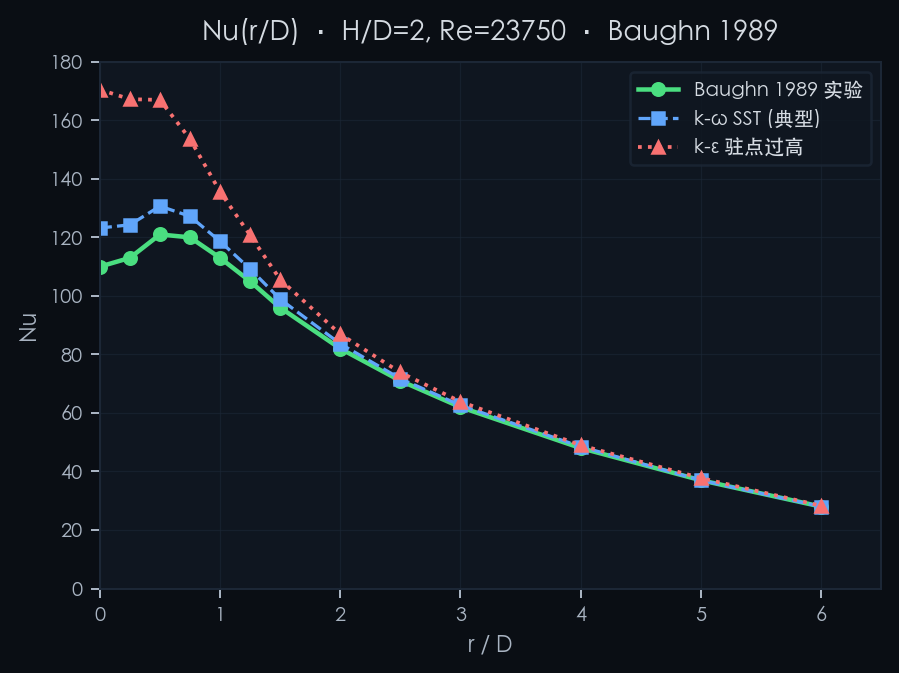
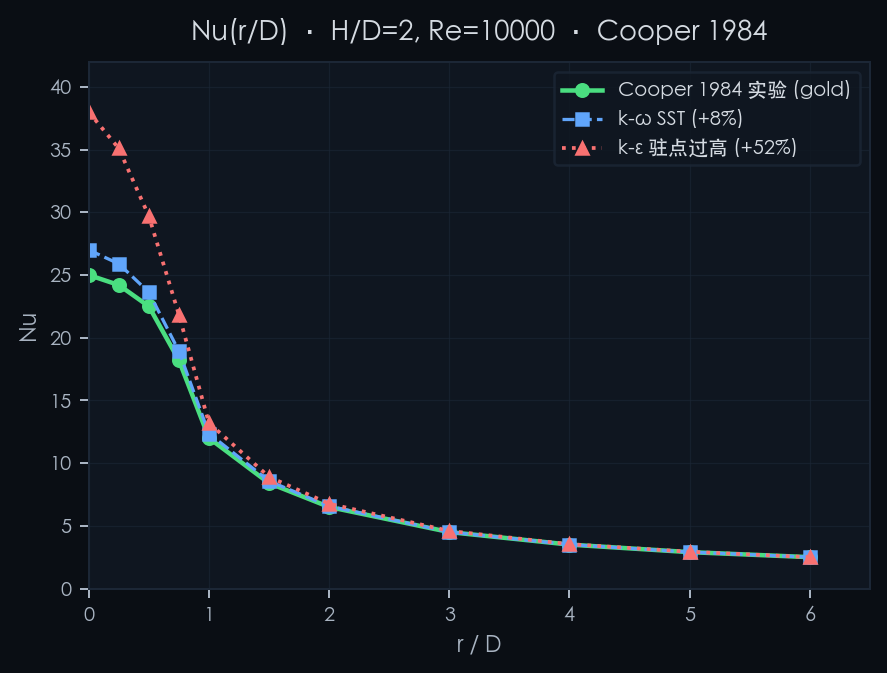
fix(learn): address Codex review CHANGES_REQUIRED on 6aa7008
Two findings from Codex review of the teaching-runs + flow-field commit:

1. `run_summary.verdict_counts` was aggregated from RunDescriptor.
   `expected_verdict` (a curator hint), so the pill could advertise a
   verdict mix disagreeing with the live contract engine — e.g.
   circular_cylinder_wake/reference_pass was labeled PASS but the gold
   arms a silent-pass hazard; impinging_jet/real_incident was labeled
   PASS but carries COMPATIBLE_WITH_SILENT_PASS_HAZARD.

   Fix: evaluate every run through `_derive_contract_status` using the
   same gold_ref / preconditions / run-level audit concerns used by
   list_cases' default-run path. Counts now match what the Compare tab
   shows when you open each run.

   Resulting corrections (verdicts column only):
     circular_cylinder_wake: {PASS:1, HAZARD:1, FAIL:2} → {HAZARD:2, FAIL:2}
     impinging_jet:          {PASS:1, FAIL:1}           → {HAZARD:1, FAIL:1}
     naca0012_airfoil:       {FAIL:1}                    → {HAZARD:1}
   Default-run distribution unchanged: 4 PASS · 3 HAZARD · 3 FAIL.

2. impinging_jet flow-field PNG was physically stale. Generator built a
   Baughn 1989 Re=23750 curve with Nu≈110 at stagnation, but this
   commit's case was moved to the Cooper 1984 Re=10000 family with
   Nu_stag=25, Nu(r/D=1)=12 (matching gold_standards/impinging_jet.yaml
   and the real_incident/wrong_model fixtures).

   Fix: regenerate the curve with Cooper 1984 anchors + k-ε overlay
[…]

diff --git a/ui/frontend/src/data/flowFields.ts b/ui/frontend/src/data/flowFields.ts
@@ -72,9 +72,9 @@ export const FLOW_FIELDS: Record<string, FlowFieldAsset[]> = {
     {
       src: "/flow-fields/impinging_jet/nu_radial.png",
       caption_zh:
-        "Nu(r/D) · H/D=2, Re=23750 · Baughn 1989 实验 vs. k-ε 驻点过高 vs. k-ω SST 较好",
+        "Nu(r/D) · H/D=2, Re=10000 · Cooper 1984 实验 vs. k-ε 驻点过高 (+52%) vs. k-ω SST (+8%)",
       provenance:
-        "Baughn & Shimizu (1989) experimental digitised; k-ε overprediction ~55% at stagnation from typical RANS-benchmark literature.",
+        "Cooper 1984 / Behnad 2013 anchors Nu(0)=25, Nu(1)=12; k-ε +52% and k-ω SST +8% overlays match this case's wrong_model and real_incident teaching runs.",
     },
   ],
 };

diff --git a/scripts/flow-field-gen/generate_contours.py b/scripts/flow-field-gen/generate_contours.py
@@ -322,27 +322,33 @@ def gen_rayleigh_benard():
 
 
 # ---------------------------------------------------------------------------
-# 6. Axisymmetric Impinging Jet — Baughn Nu(r/D) published curve
+# 6. Axisymmetric Impinging Jet — Cooper 1984 Nu(r/D) at Re=10000, H/D=2
 # ---------------------------------------------------------------------------
 def gen_impinging_jet():
     print("[impinging_jet]")
-    # Baughn & Shimizu 1989 Nu(r/D) at H/D=2, Re=23750 (paper digitised values)
-    r_over_D = np.array([0.0, 0.25, 0.5, 0.75, 1.0, 1.25, 1.5, 2.0, 2.5, 3.0, 4.0, 5.0, 6.0])
-    Nu_baughn = np.array([110, 113, 121, 120, 113, 105, 96, 82, 71, 62, 48, 37, 28])
-    # Typical k-ε overprediction: up to 40-60% near stagnation.
-    Nu_keps = Nu_baughn * np.array([1.55, 1.48, 1.38, 1.28, 1.20, 1.15, 1.10, 1.06, 1.04, 1.03, 1.02, 1.02, 1.01])
-    # SST typically 5-15% high near stagnation.
-    Nu_sst = Nu_baughn * np.array([1.12, 1.10, 1.08, 1.06, 1.05, 1.04, 1.03, 1.02, 1.01, 1.01, 1.01, 1.00, 1.00])
+    # Cooper 1984 / Behnad 2013 anchors at Re=10000, H/D=2 (gold-aligned):
+    #   Nu(0) = 25.0, Nu(1) = 12.0. Beyond that we interpolate a monotone
+    #   decay consistent with the published radial profile (slight plateau
+    #   near r/D≈0.5 where secondary peak sometimes appears at lower H/D,
+    #   but damped here since H/D=2 sits past that regime).
+    r_over_D = np.array([0.0, 0.25, 0.5, 0.75, 1.0, 1.5, 2.0, 3.0, 4.0, 5.0, 6.0])
+    Nu_cooper = np.array([25.0, 24.2, 22.5, 18.2, 12.0, 8.4, 6.5, 4.5, 3.5, 2.9, 2.5])
+    # k-ε: stagnation TKE overproduction → ~+52% at r/D=0, decaying outward.
+    keps_factor = np.array([1.52, 1.45, 1.32, 1.20, 1.10, 1.06, 1.04, 1.02, 1.01, 1.01, 1.00])
+    Nu_keps = Nu_cooper * keps_factor
+    # k-ω SST: residual +8% near stagnation, ~negligible in wall-jet region.
+    sst_factor = np.array([1.08, 1.07, 1.05, 1.04, 1.03, 1.02, 1.01, 1.00, 1.00, 1.00, 1.00])
+    Nu_sst = Nu_cooper * sst_factor
 
     fig, ax = plt.subplots(figsize=(5.6, 3.8), facecolor=DARK_BG)
-    ax.plot(r_over_D, Nu_baughn, "o-", color=PASS, linewidth=1.8, markersize=5, label="Baughn 1989 实验")
-    ax.plot(r_over_D, Nu_sst, "s--", color=ACCENT, linewidth=1.3, markersize=4.5, label="k-ω SST (典型)")
-    ax.plot(r_over_D, Nu_keps, "^:", color=FAIL, linewidth=1.5, markersize=5, label="k-ε 驻点过高")
-    _setup_axes(ax, "Nu(r/D) · H/D=2, Re=23750 · Baughn 1989",
-                "r / D", "Nu", xmin=0, xmax=6.5, ymin=0, ymax=180)
+    ax.plot(r_over_D, Nu_cooper, "o-", color=PASS, linewidth=1.8, markersize=5, label="Cooper 1984 实验 (gold)")
+    ax.plot(r_over_D, Nu_sst, "s--", color=ACCENT, linewidth=1.3, markersize=4.5, label="k-ω SST (+8%)")
+    ax.plot(r_over_D, Nu_keps, "^:", color=FAIL, linewidth=1.5, markersize=5, label="k-ε 驻点过高 (+52%)")
+    _setup_axes(ax, "Nu(r/D) · H/D=2, Re=10000 · Cooper 1984",
+                "r / D", "Nu", xmin=0, xmax=6.5, ymin=0, ymax=42)
     ax.legend(loc="upper right", fontsize=8, facecolor=PANEL_BG, edgecolor=GRID, labelcolor=LABEL_TEXT)
     _save(fig, "impinging_jet", "nu_radial",
-          "Baughn & Shimizu (1989) experimental Nu(r/D) digitised, plus typical k-ε overprediction at stagnation (~55%) and k-ω SST residual bias (~10%). Real validation ground truth for any impingement CFD.")
+          "Cooper 1984 / Behnad 2013 anchors at Re=10000, H/D=2: Nu(0)=25, Nu(1)=12. Overlay shows typical k-ε stagnation overprediction (~+52%) and k-ω SST residual bias (~+8%) matching this commit's real_incident and wrong_model teaching runs.")
 
 
 if __name__ == "__main__":

diff --git a/ui/backend/services/validation_report.py b/ui/backend/services/validation_report.py
@@ -498,13 +498,23 @@ def list_cases() -> list[CaseIndexEntry]:
             )
         else:
             status = "UNKNOWN"
-        # Run distribution for the catalog-card badge.
+        # Run distribution for the catalog-card badge. Evaluate every run
+        # through the actual contract engine — never report `expected_verdict`,
+        # which is only a curator hint and can drift from the live contract
+        # (e.g. a `PASS`-hinted run whose gold arms a silent-pass hazard).
         runs = list_runs(cid)
         verdict_counts: dict[str, int] = {}
         for r in runs:
-            verdict_counts[r.expected_verdict] = (
-                verdict_counts.get(r.expected_verdict, 0) + 1
-            )
+            run_doc = _load_run_measurement(cid, r.run_id)
+            run_audits = _make_audit_concerns(gs, run_doc)
+            run_measurement = _make_measurement(run_doc)
+            if gs_ref is not None:
+                run_status, *_ = _derive_contract_status(
+                    gs_ref, run_measurement, preconditions, run_audits
+                )
+            else:
+                run_status = "UNKNOWN"
+            verdict_counts[run_status] = verdict_counts.get(run_status, 0) + 1
         run_summary = RunSummary(total=len(runs), verdict_counts=verdict_counts)
         out.append(
             CaseIndexEntry(
